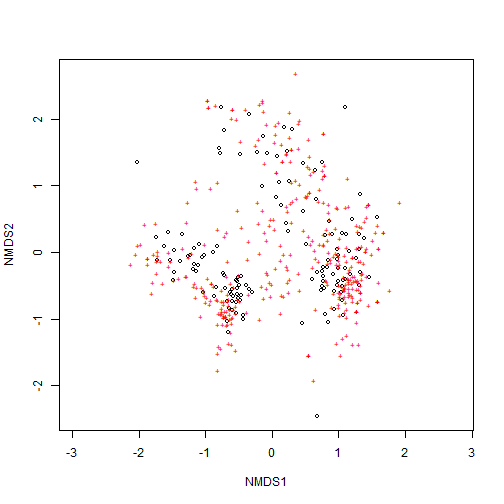
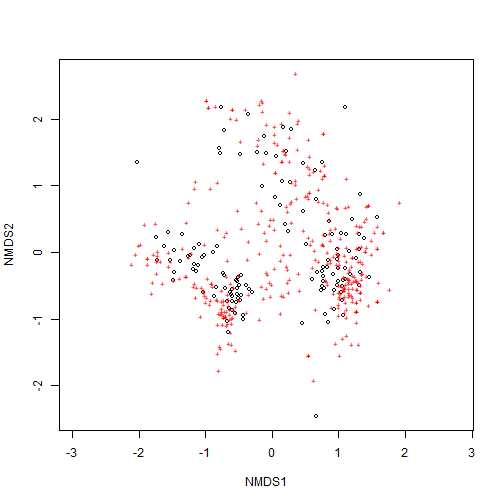
formatting fixed for real?

diff --git a/tutorials/R/biodiversity/ecocomDP/01_ecocomDP_workflow_with_NEON_and_CyVerse/01_ecocomDP_workflow_with_NEON_and_CyVerse.html b/tutorials/R/biodiversity/ecocomDP/01_ecocomDP_workflow_with_NEON_and_CyVerse/01_ecocomDP_workflow_with_NEON_and_CyVerse.html
@@ -635,7 +635,7 @@ rowSums(table_sample_by_taxon_density_wide) %&gt;% min()
 
 <h3>Find a NEON ecocomDP dataset</h3>
 
-<p>The <code>search_data()</code> function in the <code>ecocomDP</code> provides a tool to explore the ecocomDP catalog, which includes datasets from LTER and NEON sites (and others). Using <code>search_data()</code> with no arguments will return the entire catalog. Your search can be constrained by passing a text string (you can use regular expressions) to the <code>text</code> argument. The query will search data package titles, descriptions, and abstracts. Below, we show a couple examples of how to search datasets in the ecocomDP catalog.</p>
+<p>The <code>search_data()</code> function in <code>ecocomDP</code> provides a tool to explore the ecocomDP catalog, which includes datasets from LTER and NEON sites (and others). Using <code>search_data()</code> with no arguments will return the entire catalog. Your search can be constrained by passing a text string (you can use <a href="https://en.wikipedia.org/wiki/Regular_expression">regular expressions</a>) to the <code>text</code> argument. The query will search data package titles, descriptions, and abstracts. Below, we show a couple examples of how to search datasets in the ecocomDP catalog.</p>
 
 <pre><code># clean out workspace from previous section
 
@@ -683,7 +683,7 @@ data_neon_inv$id
 data_neon_inv$metadata$data_package_info
 
 ## $data_package_id
-## [1] &quot;neon.ecocomdp.20120.001.001.20220817162807&quot;
+## [1] &quot;neon.ecocomdp.20120.001.001.20220817164055&quot;
 ## 
 ## $taxonomic_group
 ## [1] &quot;MACROINVERTEBRATES&quot;
@@ -698,7 +698,7 @@ data_neon_inv$metadata$data_package_info
 ## [1] &quot;original NEON data accessed using neonUtilities v2.1.4&quot;
 ## 
 ## $data_access_date_time
-## [1] &quot;2022-08-17 16:28:07 EDT&quot;
+## [1] &quot;2022-08-17 16:40:56 EDT&quot;
 
 # validation issues? None if returns an empty list
 data_neon_inv$validation_issues
@@ -724,12 +724,12 @@ data_neon_inv$tables$taxon %&gt;% head()
 data_neon_inv$tables$observation %&gt;% head()
 
 ##   observation_id                event_id                                 package_id    location_id
-## 1          obs_1 COMO.20170803.KICKNET.1 neon.ecocomdp.20120.001.001.20220817162807 COMO.AOS.reach
-## 2          obs_2 COMO.20170803.KICKNET.1 neon.ecocomdp.20120.001.001.20220817162807 COMO.AOS.reach
-## 3          obs_3 COMO.20170803.KICKNET.1 neon.ecocomdp.20120.001.001.20220817162807 COMO.AOS.reach
-## 4          obs_4 COMO.20170803.KICKNET.1 neon.ecocomdp.20120.001.001.20220817162807 COMO.AOS.reach
-## 5          obs_5 COMO.20170803.KICKNET.1 neon.ecocomdp.20120.001.001.20220817162807 COMO.AOS.reach
-## 6          obs_6 COMO.20170803.KICKNET.1 neon.ecocomdp.20120.001.001.20220817162807 COMO.AOS.reach
+## 1          obs_1 COMO.20170803.KICKNET.1 neon.ecocomdp.20120.001.001.20220817164055 COMO.AOS.reach
+## 2          obs_2 COMO.20170803.KICKNET.1 neon.ecocomdp.20120.001.001.20220817164055 COMO.AOS.reach
+## 3          obs_3 COMO.20170803.KICKNET.1 neon.ecocomdp.20120.001.001.20220817164055 COMO.AOS.reach
+## 4          obs_4 COMO.20170803.KICKNET.1 neon.ecocomdp.20120.001.001.20220817164055 COMO.AOS.reach
+## 5          obs_5 COMO.20170803.KICKNET.1 neon.ecocomdp.20120.001.001.20220817164055 COMO.AOS.reach
+## 6          obs_6 COMO.20170803.KICKNET.1 neon.ecocomdp.20120.001.001.20220817164055 COMO.AOS.reach
 ##              datetime taxon_id variable_name value                   unit
 ## 1 2017-08-03 15:29:00   ARRSP2       density    12 count per square meter
 ## 2 2017-08-03 15:29:00   BILALG       density   424 count per square meter
@@ -790,7 +790,7 @@ flat_neon_inv %&gt;%
 
 <p><img src="https://raw.githubusercontent.com/NEONScience/NEON-Data-Skills/main/tutorials//R/biodiversity/ecocomDP/01_ecocomDP_workflow_with_NEON_and_CyVerse/rfigs/macroinvert-datavis-densities-1.png" alt="Fig 5. Densities of benthic macroinvertebrates from select NEON sites."/></p>
 
-<p>The ecocomDP format is also easy to pivot to wide format for use with commonly used analyses, such as the ordination functions in the <code>vegan</code> package for R. </p>
+<p>The ecocomDP format is also easy to pivot to wide format for input to commonly used analyses, such as the ordination functions in the <code>vegan</code> package for R. </p>
 
 <pre><code># make wide, event_id by taxon_id
 wide_neon_inv &lt;- data_neon_inv$tables$observation %&gt;%
@@ -819,36 +819,38 @@ my_nmds_result &lt;- wide_neon_inv %&gt;% metaMDS()
 ## Square root transformation
 ## Wisconsin double standardization
 ## Run 0 stress 0.1977579 
-## Run 1 stress 0.2552762 
-## Run 2 stress 0.2442044 
-## Run 3 stress 0.249624 
-## Run 4 stress 0.2196078 
-## Run 5 stress 0.2512428 
-## Run 6 stress 0.2491116 
-## Run 7 stress 0.2320675 
-## Run 8 stress 0.2074375 
-## Run 9 stress 0.2049156 
-## Run 10 stress 0.1952428 
+## Run 1 stress 0.2123943 
+## Run 2 stress 0.2213449 
+## Run 3 stress 0.2185374 
+## Run 4 stress 0.2453631 
+## Run 5 stress 0.2485014 
+## Run 6 stress 0.2471133 
+## Run 7 stress 0.2436132 
+## Run 8 stress 0.239342 
+## Run 9 stress 0.2432646 
+## Run 10 stress 0.1960912 
 ## ... New best solution
-## ... Procrustes: rmse 0.02897359  max resid 0.323252 
-## Run 11 stress 0.2394849 
-## Run 12 stress 0.1960913 
-## Run 13 stress 0.2496593 
-## Run 14 stress 0.2241801 
-## Run 15 stress 0.2408263 
-## Run 16 stress 0.217398 
-## Run 17 stress 0.2176384 
-## Run 18 stress 0.2534779 
-## Run 19 stress 0.197599 
-## Run 20 stress 0.2047104 
+## ... Procrustes: rmse 0.02992709  max resid 0.3227303 
+## Run 11 stress 0.245353 
+## Run 12 stress 0.2114205 
+## Run 13 stress 0.1952459 
+## ... New best solution
+## ... Procrustes: rmse 0.00764699  max resid 0.08467572 
+## Run 14 stress 0.2519998 
+## Run 15 stress 0.2297105 
+## Run 16 stress 0.2420364 
+## Run 17 stress 0.249567 
+## Run 18 stress 0.2280626 
+## Run 19 stress 0.2478268 
+## Run 20 stress 0.2346275 
 ## *** No convergence -- monoMDS stopping criteria:
-##     15: stress ratio &gt; sratmax
-##      5: scale factor of the gradient &lt; sfgrmin
+##     16: stress ratio &gt; sratmax
+##      4: scale factor of the gradient &lt; sfgrmin
 
 # ordination stress
 my_nmds_result$stress
 
-## [1] 0.1952428
+## [1] 0.1952459
 
 # plot ordination
 ordiplot(my_nmds_result)
@@ -860,7 +862,7 @@ ordiplot(my_nmds_result)
 
 <p>Let&#39;s compare the full NEON benthic macroinvertebrate dataset pusblished in the 2022 Data Release (<a href="https://www.neonscience.org/data-samples/data-management/data-revisions-releases/release-2022">RELEASE-2022</a>: <a href="https://doi.org/10.48443/gn8x-k322">https://doi.org/10.48443/gn8x-k322</a>) to an LTER benthic macroinvertebrate dataset from the North Temperate Lates (NTL) LTER site. </p>
 
-<p>The full NEON macroinvertebrate dataset from RELEASE-2022 can be downloaded in to the ecocomDP format using the code below; however, I have already downloaded this dataset and saved it to the CyVerse Data Store for this workshop (so don&#39;t run this code chunk).</p>
+<p>The full NEON macroinvertebrate dataset from RELEASE-2022 can be downloaded into the ecocomDP format using the code below; however, I have already downloaded this dataset and saved it to the CyVerse Data Store for this workshop (so don&#39;t run this code chunk).</p>
 
 <pre><code># pull NEON aquatic &quot;Macroinvertebrate collection&quot; for all locations and times
 # in the 2022 Data Release

diff --git a/tutorials/R/biodiversity/ecocomDP/01_ecocomDP_workflow_with_NEON_and_CyVerse/01_ecocomDP_workflow_with_NEON_and_CyVerse.md b/tutorials/R/biodiversity/ecocomDP/01_ecocomDP_workflow_with_NEON_and_CyVerse/01_ecocomDP_workflow_with_NEON_and_CyVerse.md
@@ -488,7 +488,7 @@ Examining the data model for ecocomDP, we see it follows a star-schema with long
 
 ### Find a NEON ecocomDP dataset  
 
-The `search_data()` function in the `ecocomDP` provides a tool to explore the ecocomDP catalog, which includes datasets from LTER and NEON sites (and others). Using `search_data()` with no arguments will return the entire catalog. Your search can be constrained by passing a text string (you can use regular expressions) to the `text` argument. The query will search data package titles, descriptions, and abstracts. Below, we show a couple examples of how to search datasets in the ecocomDP catalog.
+The `search_data()` function in `ecocomDP` provides a tool to explore the ecocomDP catalog, which includes datasets from LTER and NEON sites (and others). Using `search_data()` with no arguments will return the entire catalog. Your search can be constrained by passing a text string (you can use [regular expressions](https://en.wikipedia.org/wiki/Regular_expression)) to the `text` argument. The query will search data package titles, descriptions, and abstracts. Below, we show a couple examples of how to search datasets in the ecocomDP catalog.
 
 
     # clean out workspace from previous section
@@ -538,7 +538,7 @@ Now that we have downloaded the data, let's take a look at the `ecocomDP` data o
     data_neon_inv$metadata$data_package_info
 
     ## $data_package_id
-    ## [1] "neon.ecocomdp.20120.001.001.20220817162807"
+    ## [1] "neon.ecocomdp.20120.001.001.20220817164055"
     ## 
     ## $taxonomic_group
     ## [1] "MACROINVERTEBRATES"
@@ -553,7 +553,7 @@ Now that we have downloaded the data, let's take a look at the `ecocomDP` data o
     ## [1] "original NEON data accessed using neonUtilities v2.1.4"
     ## 
     ## $data_access_date_time
-    ## [1] "2022-08-17 16:28:07 EDT"
+    ## [1] "2022-08-17 16:40:56 EDT"
 
     # validation issues? None if returns an empty list
     data_neon_inv$validation_issues
@@ -579,12 +579,12 @@ Now that we have downloaded the data, let's take a look at the `ecocomDP` data o
     data_neon_inv$tables$observation %>% head()
 
     ##   observation_id                event_id                                 package_id    location_id
-    ## 1          obs_1 COMO.20170803.KICKNET.1 neon.ecocomdp.20120.001.001.20220817162807 COMO.AOS.reach
-    ## 2          obs_2 COMO.20170803.KICKNET.1 neon.ecocomdp.20120.001.001.20220817162807 COMO.AOS.reach
-    ## 3          obs_3 COMO.20170803.KICKNET.1 neon.ecocomdp.20120.001.001.20220817162807 COMO.AOS.reach
-    ## 4          obs_4 COMO.20170803.KICKNET.1 neon.ecocomdp.20120.001.001.20220817162807 COMO.AOS.reach
-    ## 5          obs_5 COMO.20170803.KICKNET.1 neon.ecocomdp.20120.001.001.20220817162807 COMO.AOS.reach
-    ## 6          obs_6 COMO.20170803.KICKNET.1 neon.ecocomdp.20120.001.001.20220817162807 COMO.AOS.reach
+    ## 1          obs_1 COMO.20170803.KICKNET.1 neon.ecocomdp.20120.001.001.20220817164055 COMO.AOS.reach
+    ## 2          obs_2 COMO.20170803.KICKNET.1 neon.ecocomdp.20120.001.001.20220817164055 COMO.AOS.reach
+    ## 3          obs_3 COMO.20170803.KICKNET.1 neon.ecocomdp.20120.001.001.20220817164055 COMO.AOS.reach
+    ## 4          obs_4 COMO.20170803.KICKNET.1 neon.ecocomdp.20120.001.001.20220817164055 COMO.AOS.reach
+    ## 5          obs_5 COMO.20170803.KICKNET.1 neon.ecocomdp.20120.001.001.20220817164055 COMO.AOS.reach
+    ## 6          obs_6 COMO.20170803.KICKNET.1 neon.ecocomdp.20120.001.001.20220817164055 COMO.AOS.reach
     ##              datetime taxon_id variable_name value                   unit
     ## 1 2017-08-03 15:29:00   ARRSP2       density    12 count per square meter
     ## 2 2017-08-03 15:29:00   BILALG       density   424 count per square meter
@@ -644,7 +644,7 @@ The `flatten_data()` function will properly flatten and merge all the tables in 
 ![Fig 5. Densities of benthic macroinvertebrates from select NEON sites.](https://raw.githubusercontent.com/NEONScience/NEON-Data-Skills/main/tutorials//R/biodiversity/ecocomDP/01_ecocomDP_workflow_with_NEON_and_CyVerse/rfigs/macroinvert-datavis-densities-1.png)
 
 
-The ecocomDP format is also easy to pivot to wide format for use with commonly used analyses, such as the ordination functions in the `vegan` package for R. 
+The ecocomDP format is also easy to pivot to wide format for input to commonly used analyses, such as the ordination functions in the `vegan` package for R. 
 
     # make wide, event_id by taxon_id
     wide_neon_inv <- data_neon_inv$tables$observation %>%
@@ -673,36 +673,38 @@ The ecocomDP format is also easy to pivot to wide format for use with commonly u
     ## Square root transformation
     ## Wisconsin double standardization
     ## Run 0 stress 0.1977579 
-    ## Run 1 stress 0.2552762 
-    ## Run 2 stress 0.2442044 
-    ## Run 3 stress 0.249624 
-    ## Run 4 stress 0.2196078 
-    ## Run 5 stress 0.2512428 
-    ## Run 6 stress 0.2491116 
-    ## Run 7 stress 0.2320675 
-    ## Run 8 stress 0.2074375 
-    ## Run 9 stress 0.2049156 
-    ## Run 10 stress 0.1952428 
+    ## Run 1 stress 0.2123943 
+    ## Run 2 stress 0.2213449 
+    ## Run 3 stress 0.2185374 
+    ## Run 4 stress 0.2453631 
+    ## Run 5 stress 0.2485014 
+    ## Run 6 stress 0.2471133 
+    ## Run 7 stress 0.2436132 
+    ## Run 8 stress 0.239342 
+    ## Run 9 stress 0.2432646 
+    ## Run 10 stress 0.1960912 
     ## ... New best solution
-    ## ... Procrustes: rmse 0.02897359  max resid 0.323252 
-    ## Run 11 stress 0.2394849 
-    ## Run 12 stress 0.1960913 
-    ## Run 13 stress 0.2496593 
-    ## Run 14 stress 0.2241801 
-    ## Run 15 stress 0.2408263 
-    ## Run 16 stress 0.217398 
-    ## Run 17 stress 0.2176384 
-    ## Run 18 stress 0.2534779 
-    ## Run 19 stress 0.197599 
-    ## Run 20 stress 0.2047104 
+    ## ... Procrustes: rmse 0.02992709  max resid 0.3227303 
+    ## Run 11 stress 0.245353 
+    ## Run 12 stress 0.2114205 
+    ## Run 13 stress 0.1952459 
+    ## ... New best solution
+    ## ... Procrustes: rmse 0.00764699  max resid 0.08467572 
+    ## Run 14 stress 0.2519998 
+    ## Run 15 stress 0.2297105 
+    ## Run 16 stress 0.2420364 
+    ## Run 17 stress 0.249567 
+    ## Run 18 stress 0.2280626 
+    ## Run 19 stress 0.2478268 
+    ## Run 20 stress 0.2346275 
     ## *** No convergence -- monoMDS stopping criteria:
-    ##     15: stress ratio > sratmax
-    ##      5: scale factor of the gradient < sfgrmin
+    ##     16: stress ratio > sratmax
+    ##      4: scale factor of the gradient < sfgrmin
 
     # ordination stress
     my_nmds_result$stress
 
-    ## [1] 0.1952428
+    ## [1] 0.1952459
 
     # plot ordination
     ordiplot(my_nmds_result)
@@ -714,7 +716,7 @@ The ecocomDP format is also easy to pivot to wide format for use with commonly u
 
 Let's compare the full NEON benthic macroinvertebrate dataset pusblished in the 2022 Data Release ([RELEASE-2022](https://www.neonscience.org/data-samples/data-management/data-revisions-releases/release-2022): https://doi.org/10.48443/gn8x-k322) to an LTER benthic macroinvertebrate dataset from the North Temperate Lates (NTL) LTER site. 
 
-The full NEON macroinvertebrate dataset from RELEASE-2022 can be downloaded in to the ecocomDP format using the code below; however, I have already downloaded this dataset and saved it to the CyVerse Data Store for this workshop (so don't run this code chunk).
+The full NEON macroinvertebrate dataset from RELEASE-2022 can be downloaded into the ecocomDP format using the code below; however, I have already downloaded this dataset and saved it to the CyVerse Data Store for this workshop (so don't run this code chunk).
 
     # pull NEON aquatic "Macroinvertebrate collection" for all locations and times
     # in the 2022 Data Release
